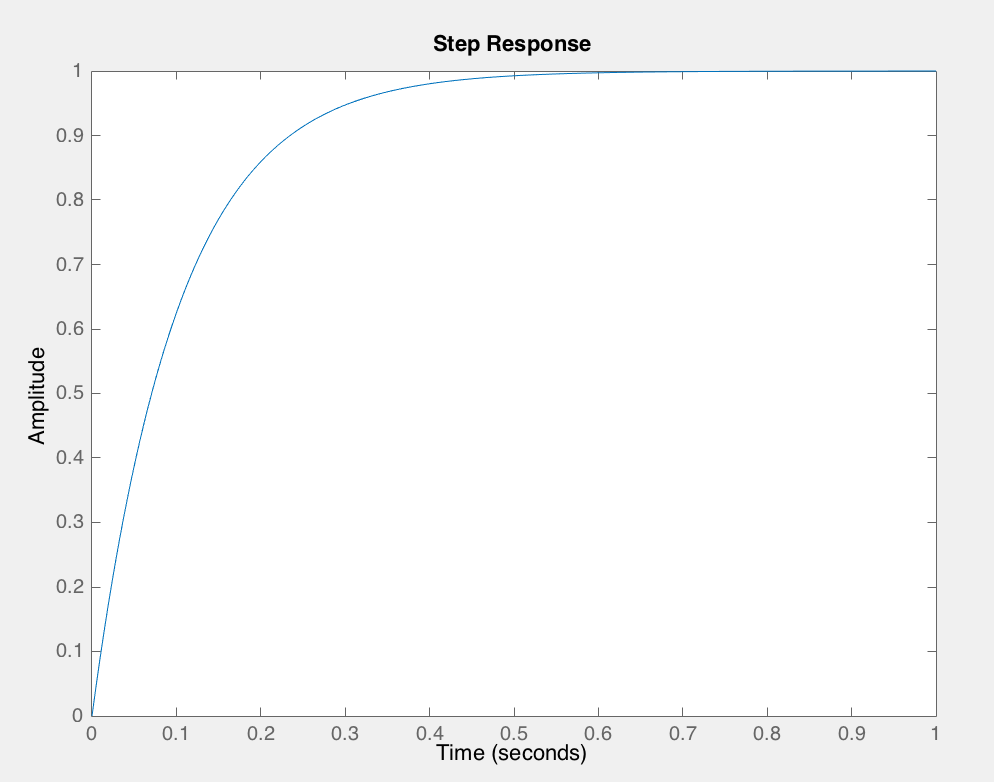
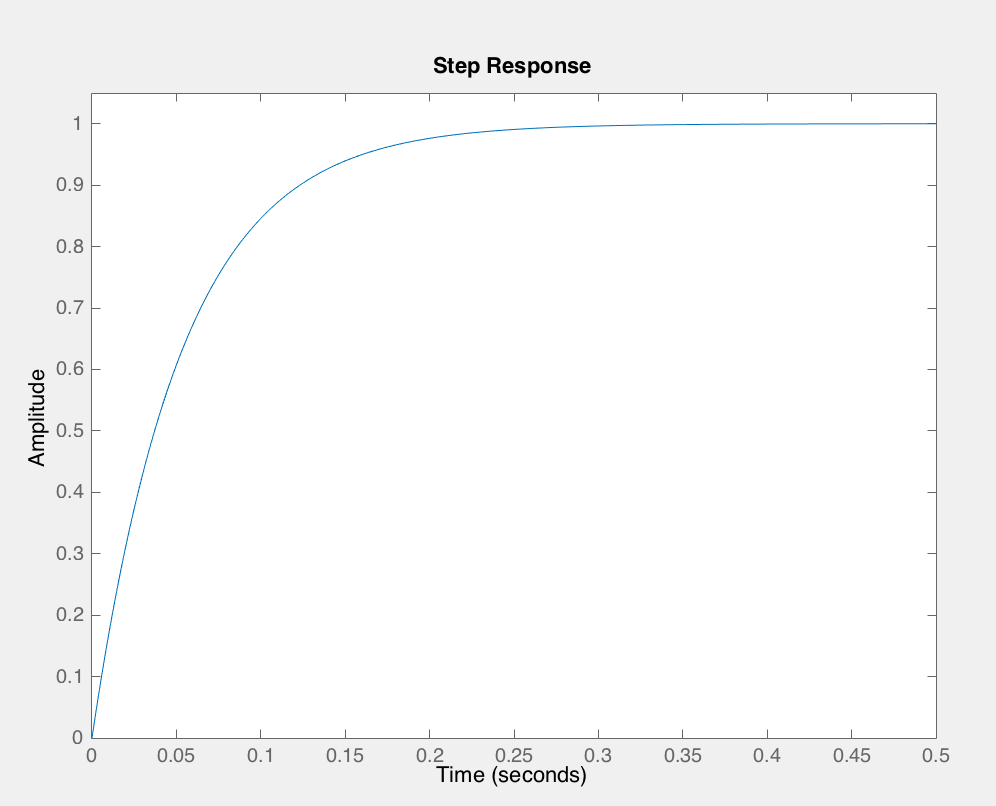
new stepresponse

diff --git a/Worksheets/chapters/chapter06/trans_x_y_controller.tex b/Worksheets/chapters/chapter06/trans_x_y_controller.tex
@@ -1,28 +1,26 @@
 In this section the governing model equations for the x and y axes is Laplace transformed and put on transfer function. 
-\subsection*{Roll translational controller}
-For the sake of repetition, the model expression for the roll is as follows:
+\subsubsection*{Roll translational controller}
+For the sake of repetition, the model expression for roll is as follows:
 \begin{align}
-m\cdot\Delta\ddot{x}_I = -k_{th}\cdot({\overline{\omega}_1}^2+{\overline{\omega}_2}^2+{\overline{\omega}_3}^2+{\overline{\omega}_4}^2)\cdot\cos(\overline{\theta})\Delta\theta
+m\Delta\ddot{x}_I = -k_{th}({\overline{\omega}_1}^2+{\overline{\omega}_2}^2+{\overline{\omega}_3}^2+{\overline{\omega}_4}^2)\cos(\overline{\theta})\Delta\theta
 \label{eq:model_x_transl}
 \end{align} 
 Laplace transforming \autoref{eq:model_x_transl} yields:
 \begin{align}
-m\cdot x_1(s)s^2=-k_{th}\cdot (\omega_1 ^2 + \omega_2 ^2 + \omega_3 ^2 + \omega_4 ^2)\cdot \theta
+m x_1(s)s^2=-k_{th}\cdot (\omega_1 ^2 + \omega_2 ^2 + \omega_3 ^2 + \omega_4 ^2) \theta
 \end{align}
-It is desirable to have a transfer function where the input is the roll angle as this is the output from the attitude controller that goes into the translational controller block. The output of the translational pitch controller must be the velocity in the x axes. \\
+It is desirable to have a transfer function where the input is the roll angle, as this is the output from the attitude controller that goes into the translational controller block. The output of the translational pitch controller must be the velocity in the x axes. \\
 The transfer function can now be written as:
 \begin{align}
-H_{x1}(s)=\frac{x_1(s) \cdot s}{\theta}=\frac{k_{th}\cdot (\omega_1 ^2 + \omega_2 ^2 + \omega_3 ^2 + \omega_4 ^2)}{m\cdot s}\label{eq:conHx}
+H_{x1}(s)=\frac{x_1(s) s}{\theta}=\frac{k_{th} (\omega_1 ^2 + \omega_2 ^2 + \omega_3 ^2 + \omega_4 ^2)}{m s}\label{eq:conHx}
 \end{align}
 \begin{where}
 \va{H_{x1}}{is the plant for the translational roll}{1}
 \end{where}
- 
-Limit check of the transfer function to verify if the model behaves as the plant is expected to in reality. \\\\
-\fxfatal{I am having trouble thinking about it, as it is not entirely intuitive to me, when the input is an angle and not a force - however if possible, i think we should have a short piece of text to show we have been critical to the math we have derived - to check it before continuing.} 
 
+From \autoref{eq:conHx} it is clearly seen that the plant is a first order system, that has one pole in zero and no zeroes. This means the system is marginally stable. It is also negative, which requires a negative controller gain to become positive. If this is not done, the controller gain will move the pole to the right half plane, making the system unstable. 
 
-As it can be seen from \autoref{eq:conHx}, the submodel of the translational roll has a pole in zero. This makes it a type 1 system, which means no steady state error will be present in its step response. 
+Moreover the zero-pole makes it a type 1 system, which means no steady state error will be present in its step response. 
 A proportional controller is considered sufficient, as it does not have to compensate for a steady state error. By increasing the gain the system will become faster, which is desirable. To determine how large the gain can be without making the system unstable by saturation issues, it is necessary to consider the bandwidth. \newpar
 The data from the Vicon is transmitted with 100 Hz. This means the attitude controller must run with 50 Hz as maximum to ensure the controller is slower than the sensor data. A rule of thumb states that the bandwidth of the system shall be 25 times smaller than the attitude controller. The desired bandwidth of the translational roll controller is calculated as follows:
 \begin{align}
@@ -36,12 +34,18 @@ BW=2\cdot \pi\cdot \frac{f_s}{25}=2\cdot \pi \frac{50}{25}=12.57\label{eq:bw_X}
 From \autoref{eq:bw_X} it is known, that the ideal bandwidth of the system is 12.57 rad/s. 
 \begin{figure}[H]
 	\centering
-	\includegraphics[width=0.8\textwidth]{figures/bode_x.png}
+	\includegraphics[width=0.7\textwidth]{figures/bode_x.png}
 	\caption{Bodeplot of the plant, with the bandwidth of 12.6 rad/s displayed.}\label{fig:bode_x}
 \end{figure}
 The bodeplot in \autoref{fig:bode_x} reveals that the magnitude is 2.15 dB at 12.6 rad/s and must be lifted by 
 
-\subsection*{Pitch translational controller}
+The frequency response of the plant with a  proportional controller with a negative gain of one can be seen in \autoref{fig:step_x}
+\begin{figure}[H]
+	\centering
+	\includegraphics[width=0.8\textwidth]{figures/step_x.png}
+	\caption{Stepresponse for the plant with a proportional controller with a gain of negative one.}\label{fig:step_x}
+\end{figure}
+\subsubsection*{Pitch translational controller}
 The model expression for pitch is previously derived to be:
 \begin{align}
 m\cdot\Delta\ddot{y}_I = k_{th}\cdot({\overline{\omega}_1}^2+{\overline{\omega}_2}^2+{\overline{\omega}_3}^2+{\overline{\omega}_4}^2)\cdot\cos(\overline{\phi})\cdot\cos(\overline{\theta})\cdot\Delta\phi
@@ -62,3 +66,8 @@ H_{y1}(s)=\frac{y_1(s)\cdot s}{\phi}=\frac{k_{th}\cdot (\omega_1 ^2 + \omega_2 ^
 Root locus and bode and all that and we end up with P controller
 
 simulation of the controllers
+
+Before designing the controller limit checks of the transfer function to verify if the model behaves as the plant is expected to in reality is carried out. \\
+\fxfatal{I am having trouble thinking about it, as it is not entirely intuitive to me, when the input is an angle and not a force - however if possible, i think we should have a short piece of text to show we have been critical to the math we have derived - to check it before continuing.} 
+
+Now that the limit checks confirms the sanity of the model, the controller can be designed. \fxnote{I still think that all of the above in this section shall be moved to the model chapter as conclusion of the chapter.}\\
